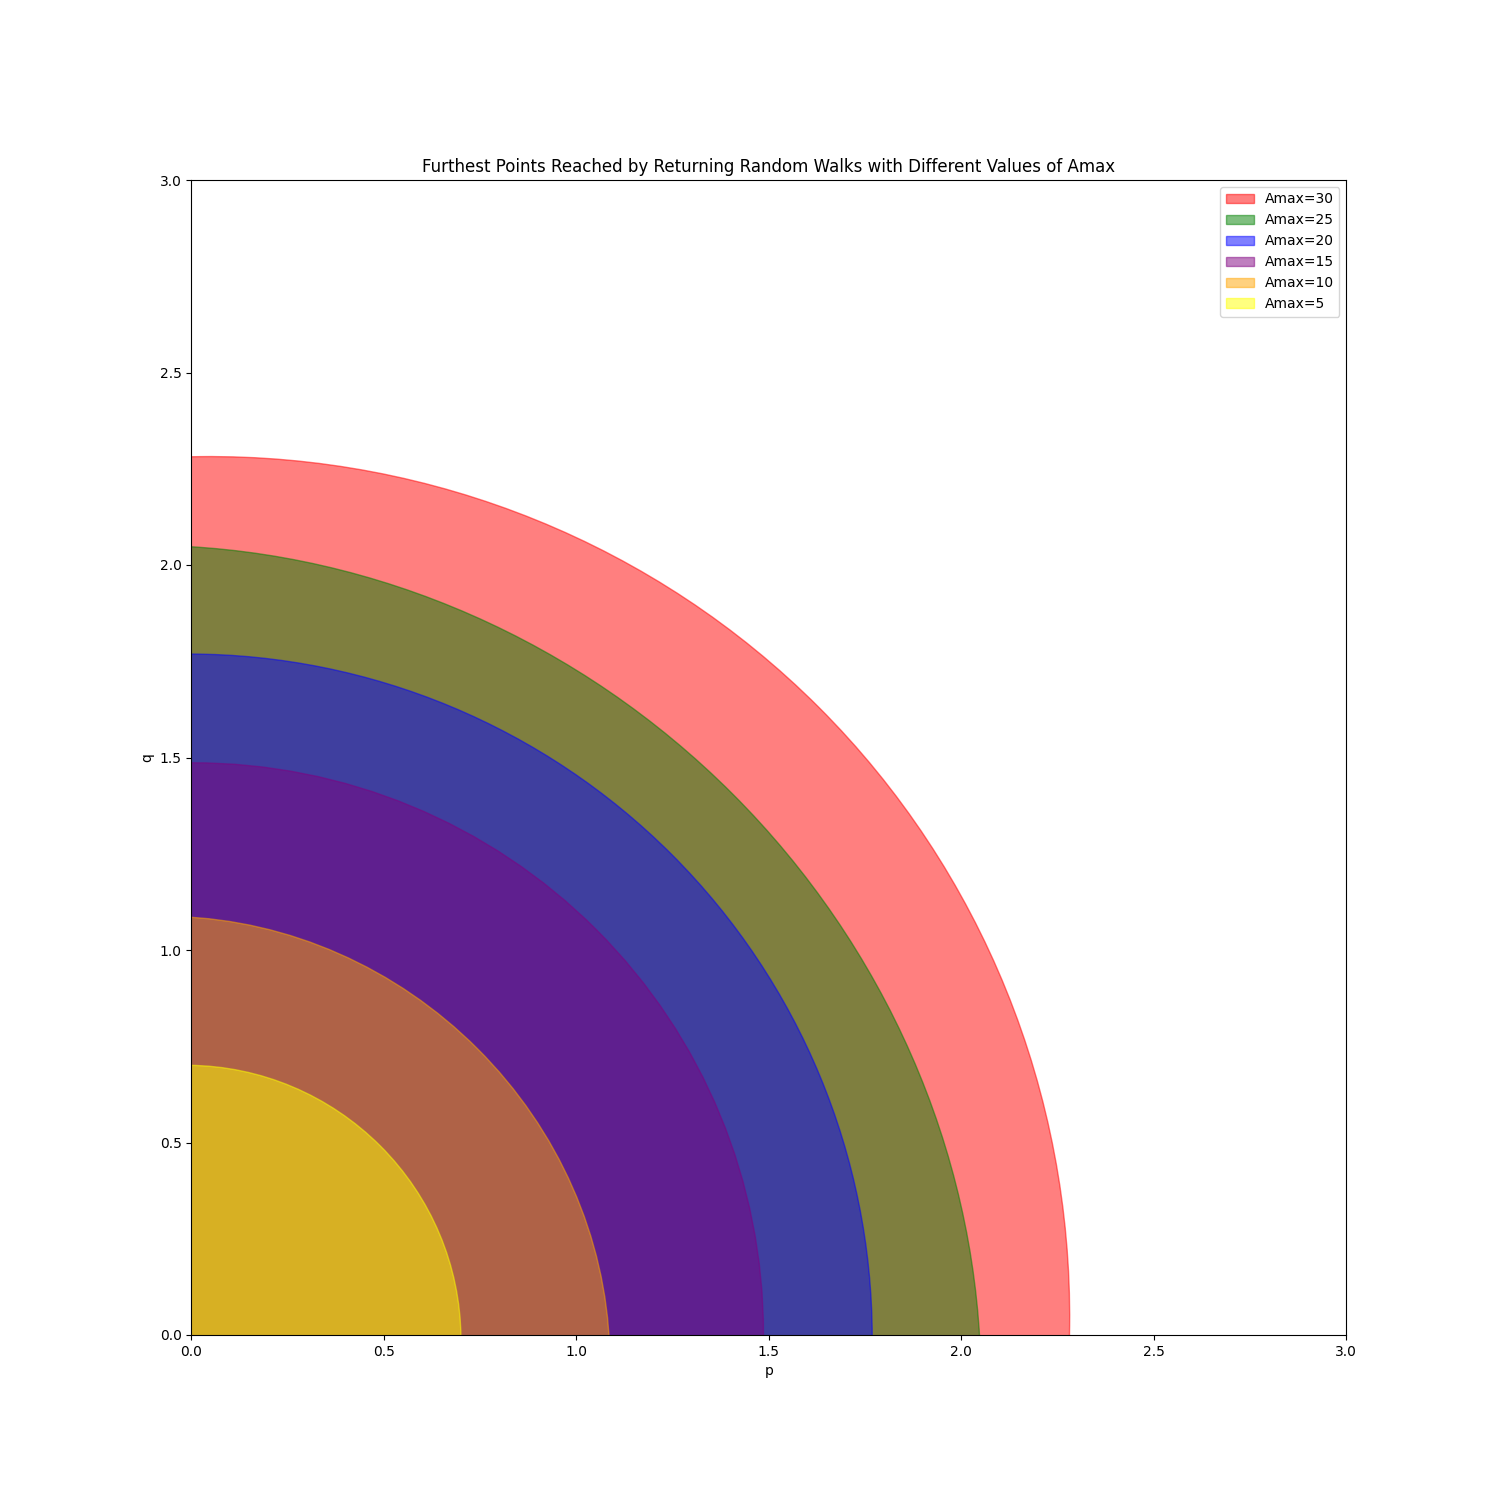
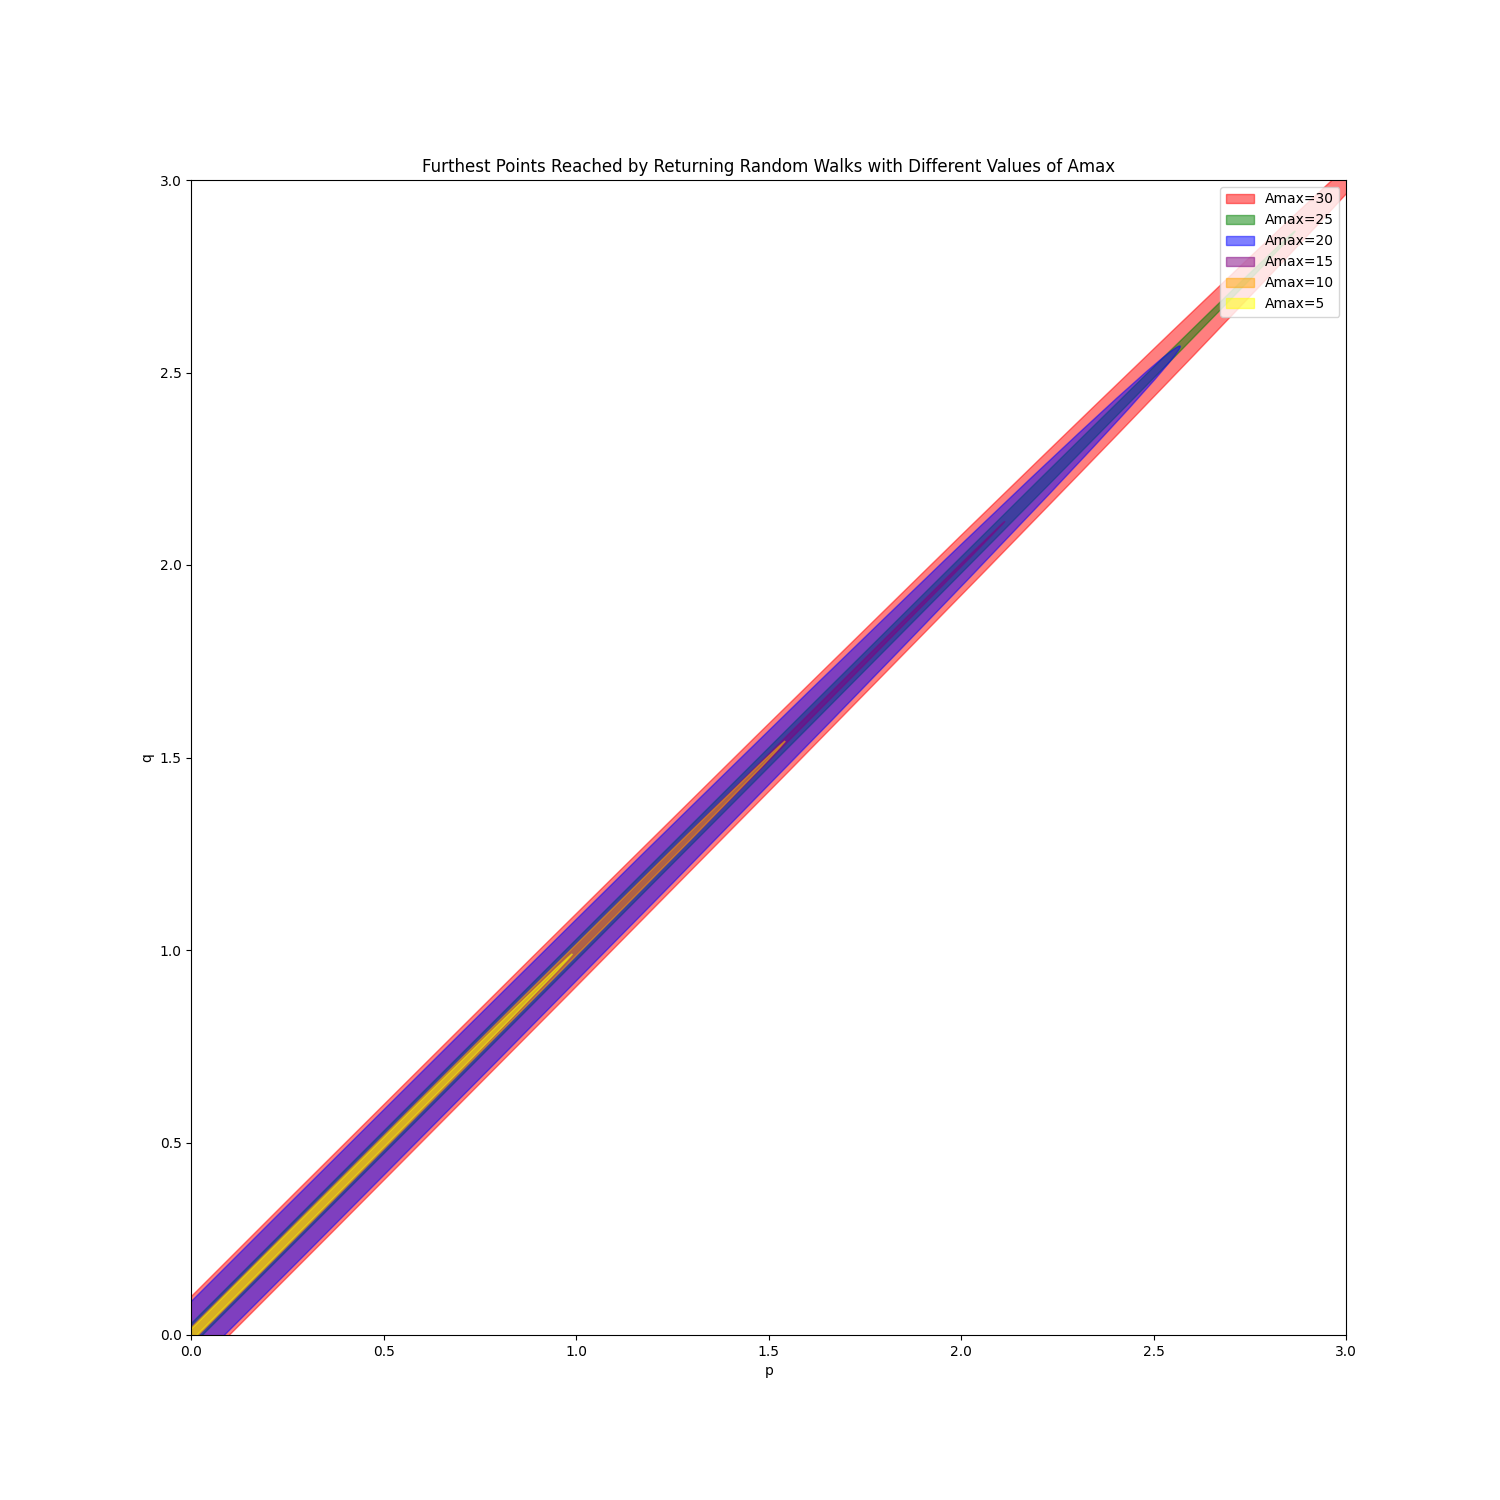
updating repo

Changed region(s): [[0.1227, 0.1227, 0.8893, 0.8893]]

diff --git a/thomasrun/test_gluon_walker/pq_countour.py b/thomasrun/test_gluon_walker/pq_countour.py
@@ -38,8 +38,8 @@ for i in range(len(Amax_list)):
     Amax = Amax_list[len(Amax_list)-(i+1)]
     p = max_dist_array[(max_dist_array[:,2]==Amax),0]
     q = max_dist_array[(max_dist_array[:,2]==Amax),1]
-    p_width = np.average(p)
-    q_height = np.average(q)
+    p_width = np.average(p+q)
+    q_height = np.average(p-q)
     labels.append("Amax="+str(Amax))
     el = matplotlib.patches.Ellipse((0,0), p_width, q_height, angle=45, color=colors[i],edgecolor="black",alpha=0.5)
     handles.append(el)
